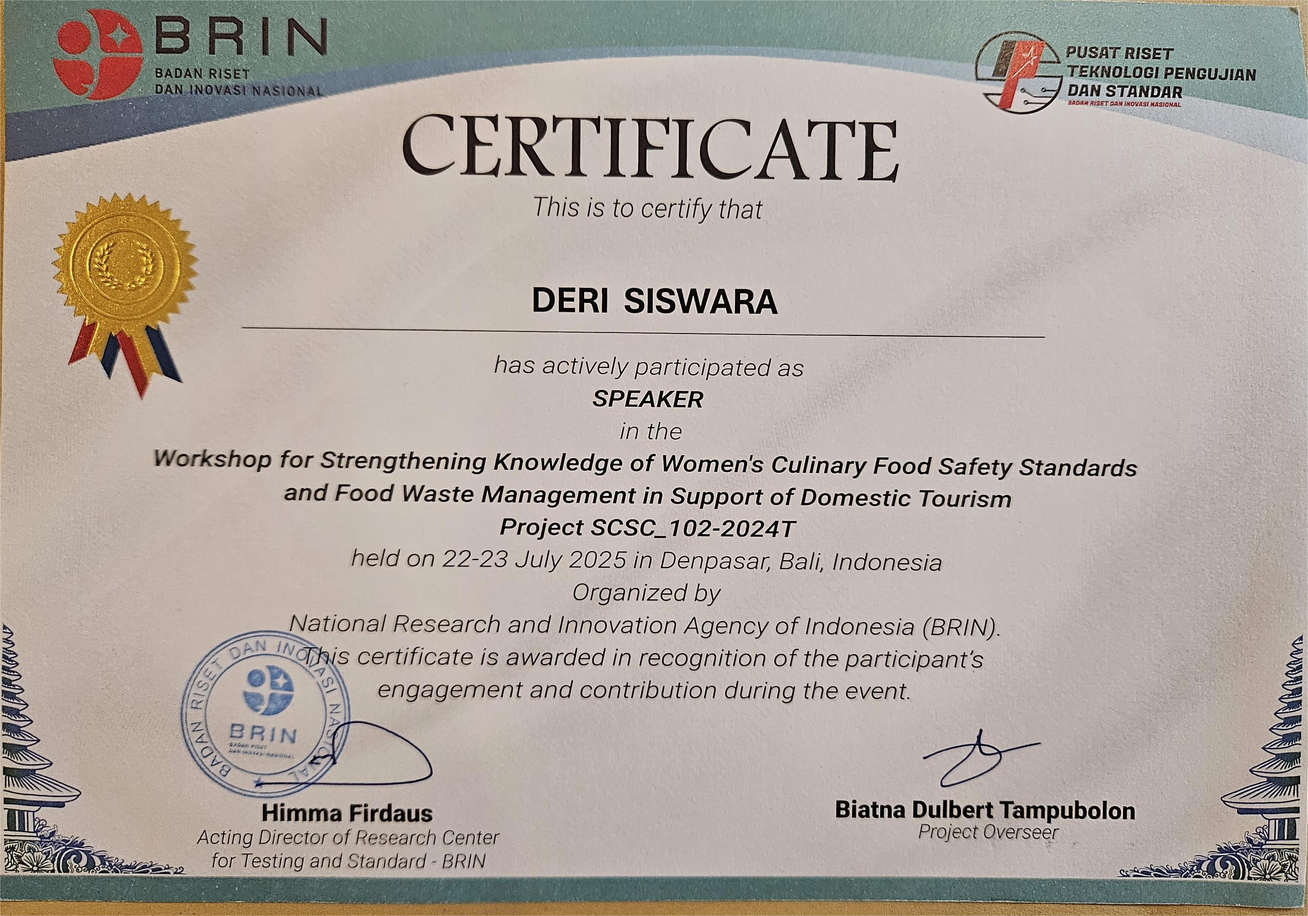
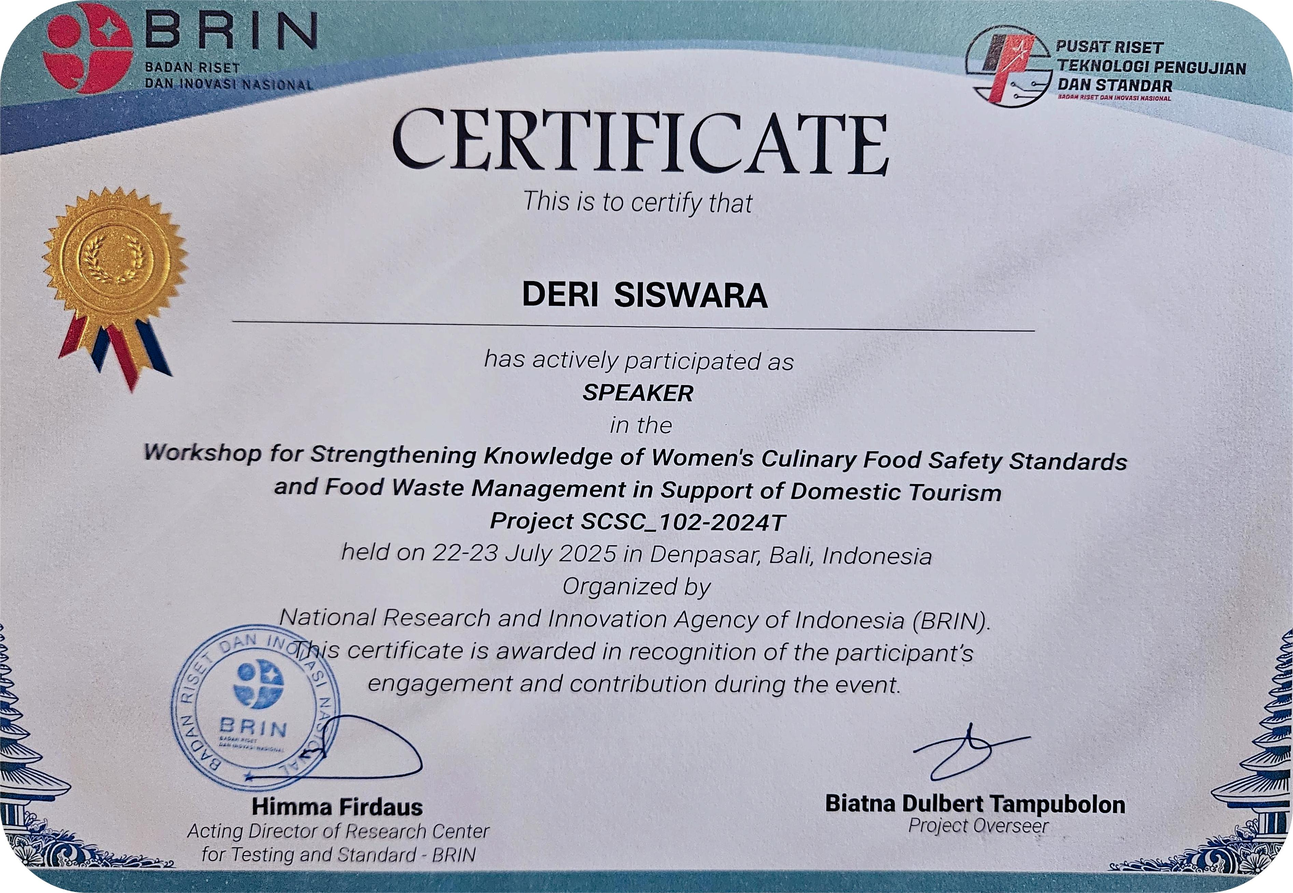
Built site for gh-pages

diff --git a/projects/index.html b/projects/index.html
@@ -357,11 +357,11 @@ window.Quarto = {
             
         </div>
     
-        <div class="research-entry" data-index="2" data-categories="U3VydmV5JTIwRGF0YSUyMEFuYWx5c2lz" data-listing-date-sort="1709226000000" data-listing-file-modified-sort="1752086676410" data-listing-date-modified-sort="NaN" data-listing-reading-time-sort="1" data-listing-word-count-sort="1">
+        <div class="research-entry" data-index="2" data-categories="U3VydmV5JTIwRGF0YSUyMEFuYWx5c2lz" data-listing-date-sort="1709226000000" data-listing-file-modified-sort="1754141356044" data-listing-date-modified-sort="NaN" data-listing-reading-time-sort="1" data-listing-word-count-sort="6">
             <div class="body">
                 <p class="title listing-title">
                     
-                        Indonesia Report on the ASEAN Competition Business Perception Index (ACBPI)
+                        <a href="../projects/previous/kppuasean/index.html">Indonesia Report on the ASEAN Competition Business Perception Index (ACBPI)</a>
                     
                 </p>
                 <p class="subtitle listing-subtitle">
@@ -390,16 +390,6 @@ window.Quarto = {
                     </div>
                 
                 <ul class="research-links">
-                    
-                        
-                        <li class="research-link">
-                            
-                            <a href="../report.pdf">
-                            
-                                <i class="fa-regular fa-file-pdf"></i> Report
-                            </a>
-                        </li>
-                        
                     
                 </ul>
             </div>
@@ -526,11 +516,11 @@ window.Quarto = {
             
         </div>
     
-        <div class="research-entry" data-index="4" data-categories="RWNvbm9tZXRyaWNz" data-listing-date-sort="1677603600000" data-listing-file-modified-sort="1752086667745" data-listing-date-modified-sort="NaN" data-listing-reading-time-sort="1" data-listing-word-count-sort="1">
+        <div class="research-entry" data-index="4" data-categories="RWNvbm9tZXRyaWNz" data-listing-date-sort="1677603600000" data-listing-file-modified-sort="1754141374187" data-listing-date-modified-sort="NaN" data-listing-reading-time-sort="1" data-listing-word-count-sort="18">
             <div class="body">
                 <p class="title listing-title">
                     
-                        Food Price Analysis | Price Transmission Mechanism of 10 Selected Commodities
+                        <a href="../projects/previous/kppu/index.html">Food Price Analysis | Price Transmission Mechanism of 10 Selected Commodities</a>
                     
                 </p>
                 <p class="subtitle listing-subtitle">
@@ -560,24 +550,6 @@ window.Quarto = {
                 
                 <ul class="research-links">
                     
-                        
-                        <li class="research-link">
-                            
-                            <a href="../report.pdf">
-                            
-                                <i class="fa-regular fa-file-pdf"></i> Report (Bahasa)
-                            </a>
-                        </li>
-                        
-                        <li class="research-link">
-                            
-                            <a href="../slides.pdf">
-                            
-                                <i class="fa-solid fa-chalkboard-user"></i> Slides (Bahasa)
-                            </a>
-                        </li>
-                        
-                    
                 </ul>
             </div>
             
@@ -587,11 +559,11 @@ window.Quarto = {
             
         </div>
     
-        <div class="research-entry" data-index="5" data-categories="RWNvbm9tZXRyaWNzJTJDUGFwZXI=" data-listing-date-sort="1675184400000" data-listing-file-modified-sort="1754140469632" data-listing-date-modified-sort="NaN" data-listing-reading-time-sort="1" data-listing-word-count-sort="1">
+        <div class="research-entry" data-index="5" data-categories="RWNvbm9tZXRyaWNzJTJDUGFwZXI=" data-listing-date-sort="1675184400000" data-listing-file-modified-sort="1754141262101" data-listing-date-modified-sort="NaN" data-listing-reading-time-sort="1" data-listing-word-count-sort="18">
             <div class="body">
                 <p class="title listing-title">
                     
-                        Interkoneksi Pertumbuhan Ekonomi Antar Provinsi di Indonesia
+                        <a href="../projects/previous/jurnalisei/index.html">Interkoneksi Pertumbuhan Ekonomi Antar Provinsi di Indonesia</a>
                     
                 </p>
                 <p class="subtitle listing-subtitle">
@@ -635,24 +607,6 @@ window.Quarto = {
                     </div>
                 
                 <ul class="research-links">
-                    
-                        
-                        <li class="research-link">
-                            
-                            <a href="../sertif.pdf">
-                            
-                                <i class="fa-regular fa-file-pdf"></i> Certificate
-                            </a>
-                        </li>
-                        
-                        <li class="research-link">
-                            
-                            <a href="previous/jurnalisei/slides.pdf">
-                            
-                                <i class="fa-solid fa-chalkboard-user"></i> Slides (Bahasa)
-                            </a>
-                        </li>
-                        
                     
                 </ul>
             </div>

diff --git a/projects/previous/jurnalisei/index.html b/projects/previous/jurnalisei/index.html
@@ -167,22 +167,19 @@ ul.task-list li input[type="checkbox"] {
           
 
         
-                <div class="project-details">
-                        <ul class="project-links">
-                                <li class="project-link">
-                    <a href="sertif.pdf"><i class="fa-regular fa-file-pdf"></i> Certificate</a>
-                </li>
-                                <li class="project-link">
-                    <a href="previous/jurnalisei/slides.pdf"><i class="fa-solid fa-chalkboard-user"></i> Slides (Bahasa)</a>
-                </li>
-                            </ul>
-                    </div>
-
             </header>
 
 
+<section id="certificate" class="level2">
+<h2 class="anchored" data-anchor-id="certificate"><i class="fa-regular fa-file-pdf" aria-label="file-pdf"></i> Certificate</h2>
+<p><object data="sertif.pdf" type="application/pdf" width="100%" height="500"><a href="sertif.pdf" download="">Download PDF file.</a></object></p>
+</section>
+<section id="slides-bahasa" class="level2">
+<h2 class="anchored" data-anchor-id="slides-bahasa"><i class="fa-solid fa-chalkboard-user" aria-label="chalkboard-user"></i> Slides (Bahasa)</h2>
+<p><object data="slides.pdf" type="application/pdf" width="100%" height="500"><a href="slides.pdf" download="">Download PDF file.</a></object></p>
 
 
+</section>
 
 </main> <!-- /main -->
 <script id="quarto-html-after-body" type="application/javascript">

diff --git a/projects/previous/kppu/index.html b/projects/previous/kppu/index.html
@@ -165,22 +165,19 @@ ul.task-list li input[type="checkbox"] {
           
 
         
-                <div class="project-details">
-                        <ul class="project-links">
-                                <li class="project-link">
-                    <a href="report.pdf"><i class="fa-regular fa-file-pdf"></i> Report (Bahasa)</a>
-                </li>
-                                <li class="project-link">
-                    <a href="slides.pdf"><i class="fa-solid fa-chalkboard-user"></i> Slides (Bahasa)</a>
-                </li>
-                            </ul>
-                    </div>
-
             </header>
 
 
+<section id="report-bahasa" class="level2">
+<h2 class="anchored" data-anchor-id="report-bahasa"><i class="fa-regular fa-file-pdf" aria-label="file-pdf"></i> Report (Bahasa)</h2>
+<p><object data="report.pdf" type="application/pdf" width="100%" height="800"><a href="report.pdf" download="">Download PDF file.</a></object></p>
+</section>
+<section id="slides-bahasa" class="level2">
+<h2 class="anchored" data-anchor-id="slides-bahasa"><i class="fa-solid fa-chalkboard-user" aria-label="chalkboard-user"></i> Slides (Bahasa)</h2>
+<p><object data="slides.pdf" type="application/pdf" width="100%" height="500"><a href="slides.pdf" download="">Download PDF file.</a></object></p>
 
 
+</section>
 
 </main> <!-- /main -->
 <script id="quarto-html-after-body" type="application/javascript">

diff --git a/projects/previous/kppuasean/index.html b/projects/previous/kppuasean/index.html
@@ -165,19 +165,15 @@ ul.task-list li input[type="checkbox"] {
           
 
         
-                <div class="project-details">
-                        <ul class="project-links">
-                                <li class="project-link">
-                    <a href="report.pdf"><i class="fa-regular fa-file-pdf"></i> Report</a>
-                </li>
-                            </ul>
-                    </div>
-
             </header>
 
 
+<section id="report" class="level2">
+<h2 class="anchored" data-anchor-id="report"><i class="fa-regular fa-file-pdf" aria-label="file-pdf"></i> Report</h2>
+<p><object data="report.pdf" type="application/pdf" width="100%" height="800"><a href="report.pdf" download="">Download PDF file.</a></object></p>
 
 
+</section>
 
 </main> <!-- /main -->
 <script id="quarto-html-after-body" type="application/javascript">
